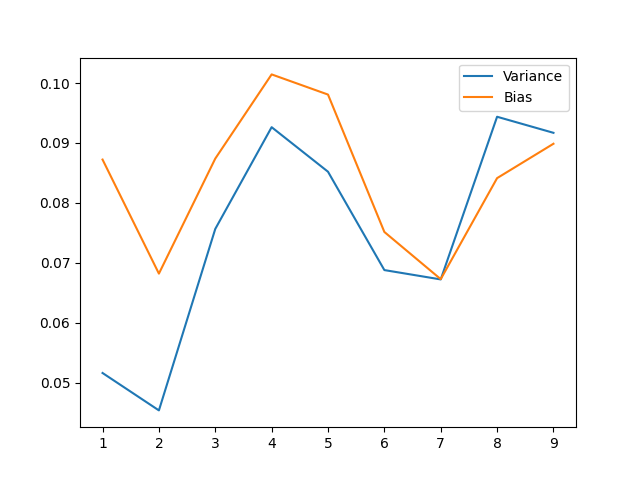
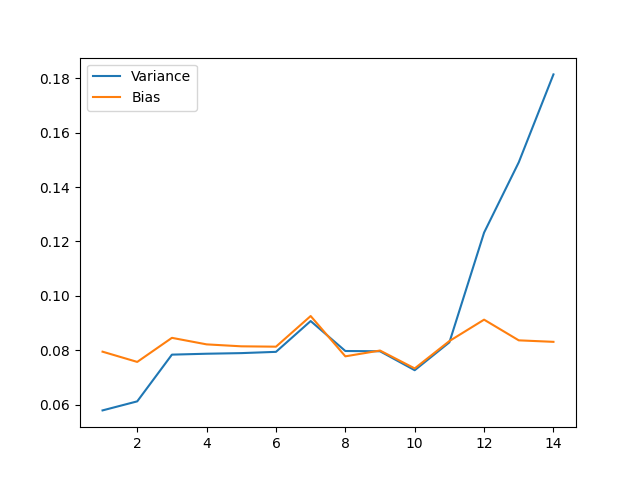
Much more sensible bias-variance plot

diff --git a/src/plotting/complexity_bv_tradeoff.py b/src/plotting/complexity_bv_tradeoff.py
@@ -45,7 +45,12 @@ plt.savefig(os.path.join(out_dir, "complexity.png"))
 
 plt.clf()
 
-degs = list(range(1,10))
+N = 40
+x = np.linspace(0, 1, N); y = np.linspace(0, 1, N)
+x, y = np.meshgrid(x, y)
+x = np.ravel(x); y = np.ravel(y)
+Y = franke(x, y, noise=False)
+degs = list(range(1,15))
 Xs = [design_matrix(x, y, deg) for deg in degs]
 variances = []
 biases = []
